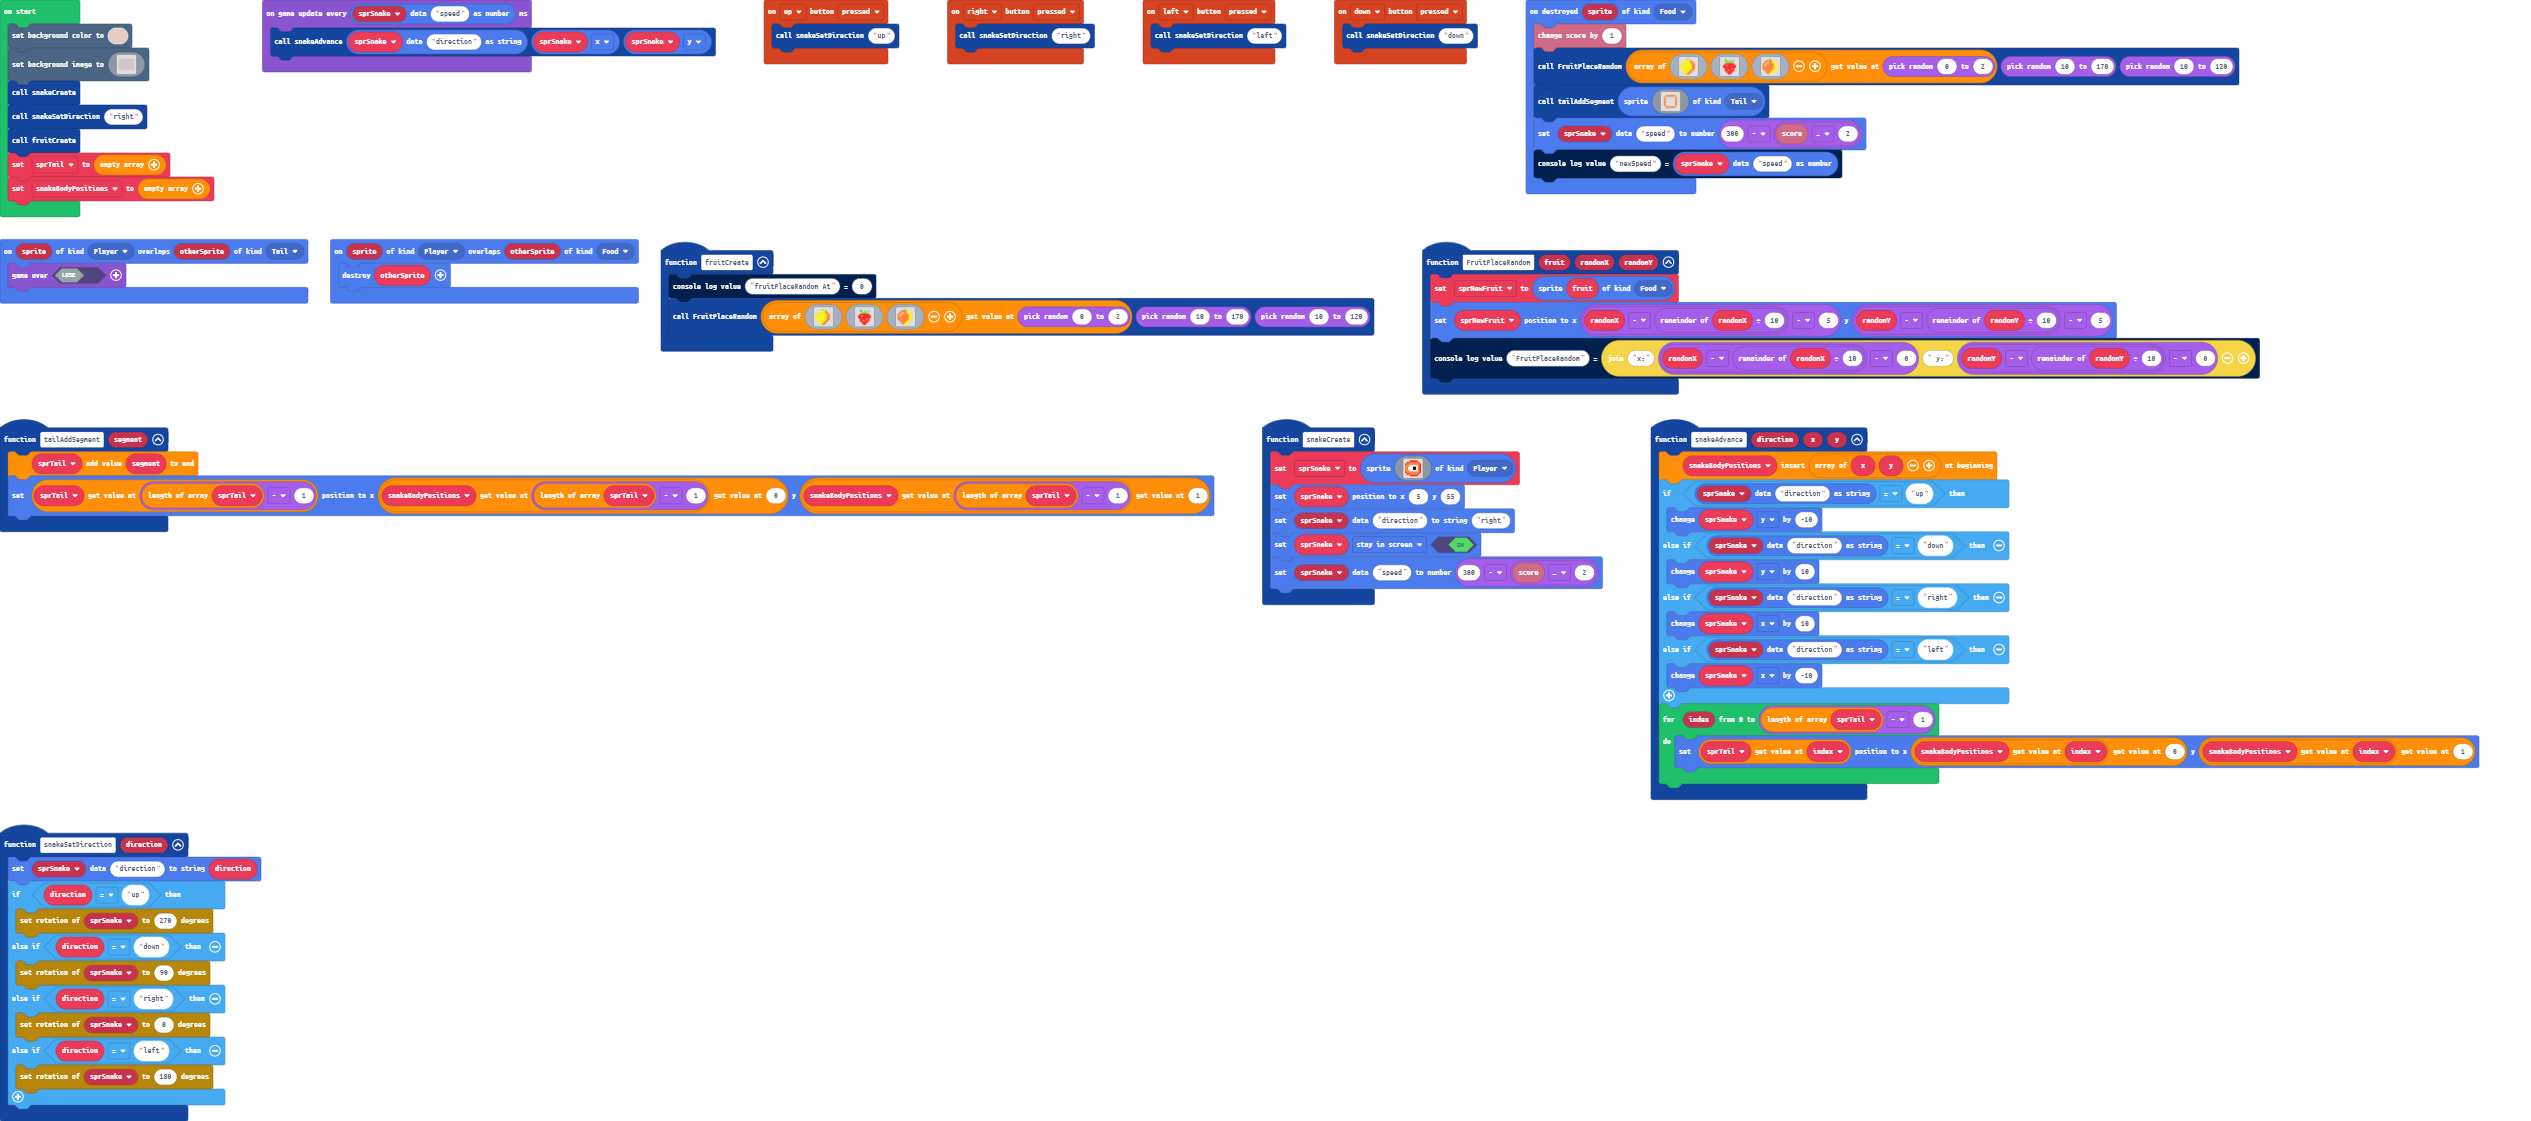
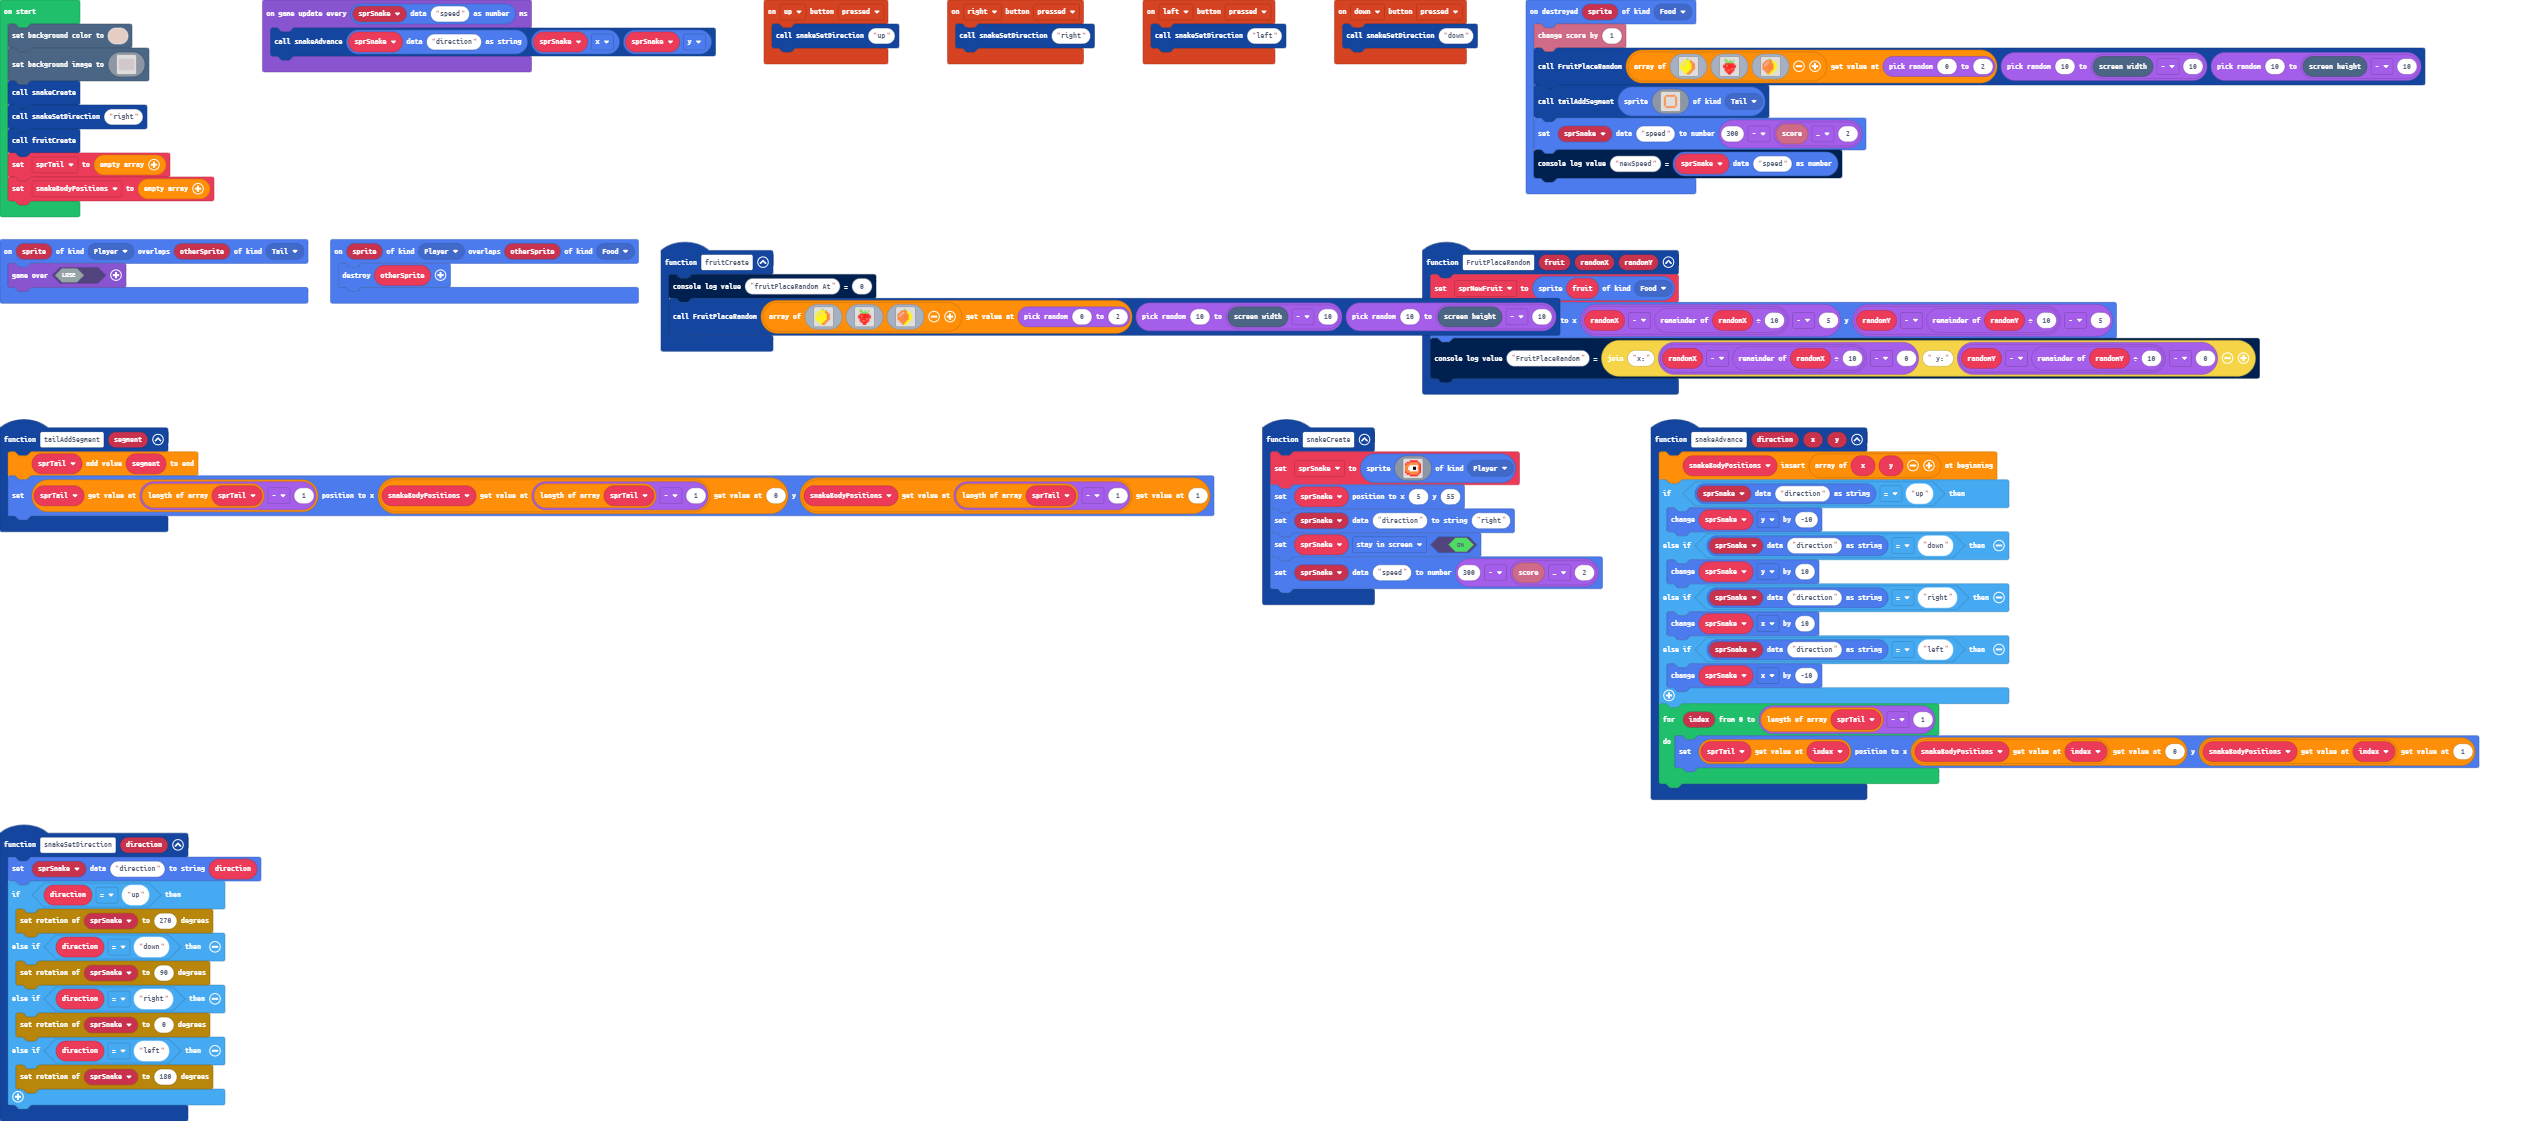
added screen size as a variable

Changed region(s): [[0.8115, 0.0312, 0.9676, 0.0937], [0.4682, 0.2498, 0.6243, 0.3122]]

diff --git a/main.ts b/main.ts
@@ -23,7 +23,7 @@ controller.up.onEvent(ControllerButtonEvent.Pressed, function () {
 })
 sprites.onDestroyed(SpriteKind.Food, function (sprite) {
     info.changeScoreBy(1)
-    FruitPlaceRandom([assets.image`fruit-lemon`, assets.image`fruit-strawberry`, assets.image`fruit-orange`][randint(0, 2)], randint(10, 170), randint(10, 120))
+    FruitPlaceRandom([assets.image`fruit-lemon`, assets.image`fruit-strawberry`, assets.image`fruit-orange`][randint(0, 2)], randint(10, scene.screenWidth() - 10), randint(10, scene.screenHeight() - 10))
     tailAddSegment(sprites.create(assets.image`snake-segment`, SpriteKind.Tail))
     sprites.setDataNumber(sprSnake, "speed", 300 - info.score() * 2)
     console.logValue("newSpeed", sprites.readDataNumber(sprSnake, "speed"))
@@ -53,7 +53,7 @@ controller.down.onEvent(ControllerButtonEvent.Pressed, function () {
 })
 function fruitCreate () {
     console.logValue("fruitPlaceRandom At", 0)
-    FruitPlaceRandom([assets.image`fruit-lemon`, assets.image`fruit-strawberry`, assets.image`fruit-orange`][randint(0, 2)], randint(10, 170), randint(10, 120))
+    FruitPlaceRandom([assets.image`fruit-lemon`, assets.image`fruit-strawberry`, assets.image`fruit-orange`][randint(0, 2)], randint(10, scene.screenWidth() - 10), randint(10, scene.screenHeight() - 10))
 }
 sprites.onOverlap(SpriteKind.Player, SpriteKind.Food, function (sprite, otherSprite) {
     otherSprite.destroy()
